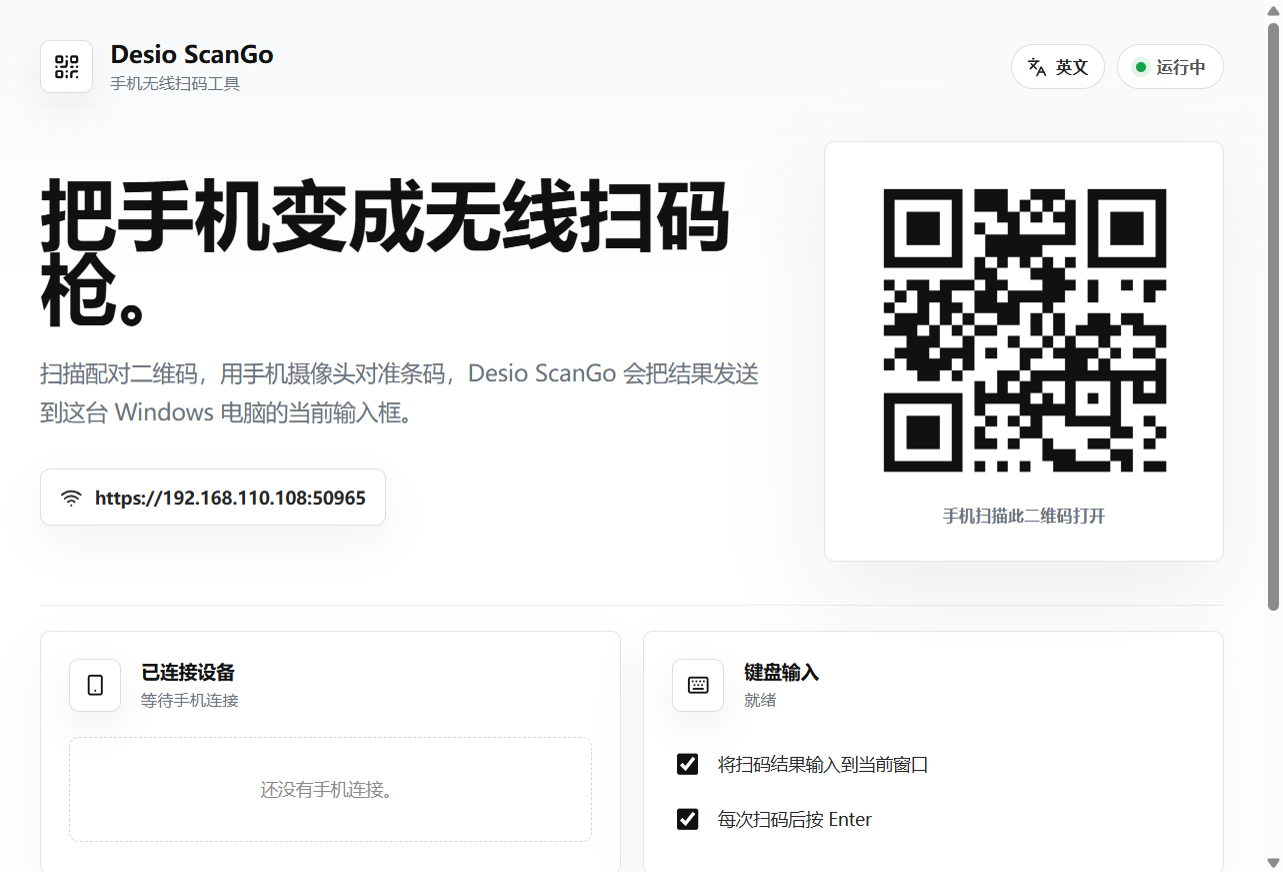
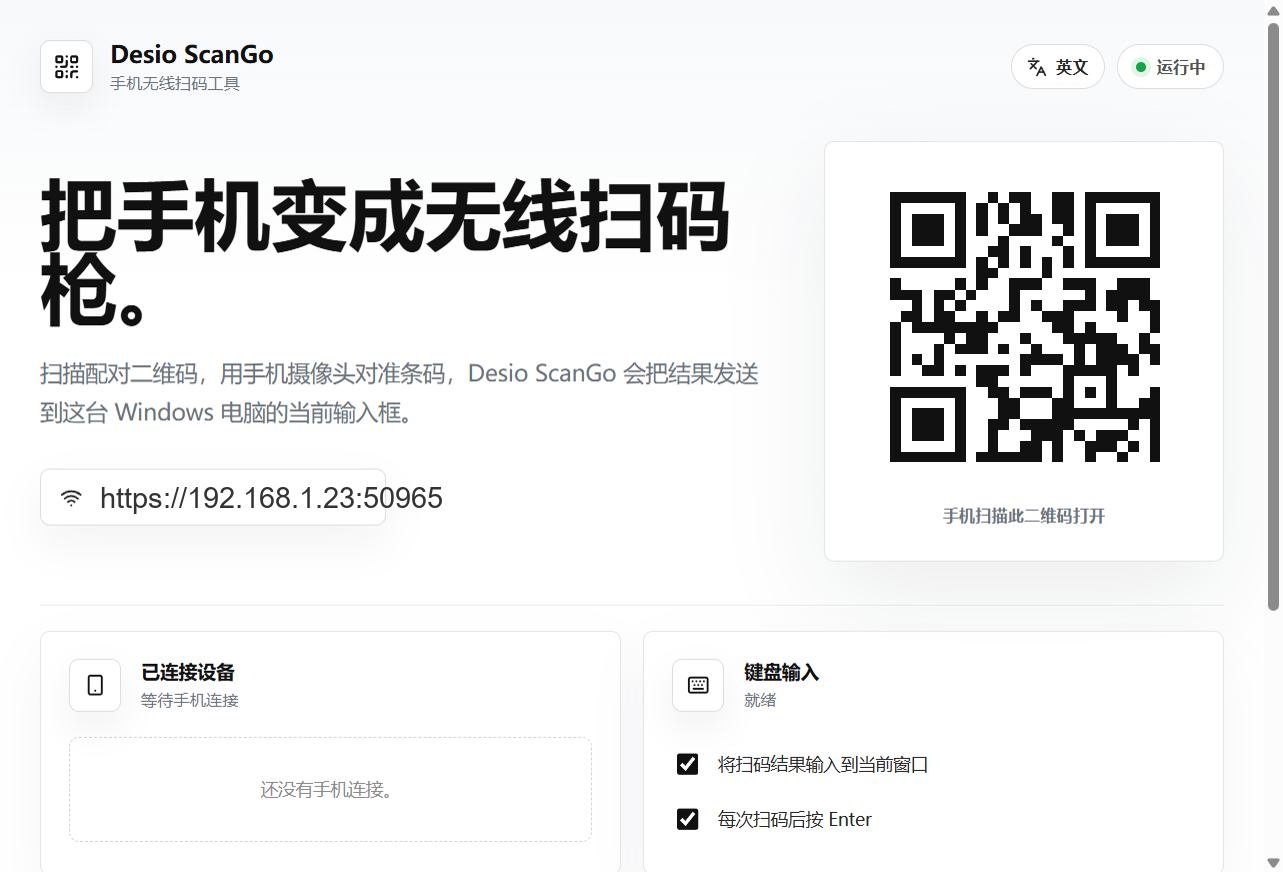
chore: open-source compliance pass
- Point LICENSE and package.json author at the repository owner
- Add THIRD-PARTY-NOTICES.md covering all runtime dependencies (MIT/ISC)
- Add SECURITY.md documenting the threat model, known limitations,
  privacy guarantees and private vulnerability reporting
- Replace the real LAN address in the README screenshot (both the
  address pill and the pairing QR code) with a placeholder
- Add a GitHub Actions workflow running lint and build on push/PR

Changed region(s): [[0.6859, 0.2167, 0.9353, 0.5573], [0.0624, 0.5573, 0.3429, 0.5883]]

diff --git a/SECURITY.md b/SECURITY.md
@@ -1,0 +1,43 @@
+# 安全说明
+
+## 支持的版本
+
+| 版本 | 是否提供安全修复 |
+| --- | --- |
+| 0.1.x | 是 |
+
+## 报告漏洞
+
+**请不要用公开 issue 报告安全漏洞。** 请通过 GitHub 仓库的「Security」标签页使用私密漏洞报告（Private vulnerability reporting）提交，或通过仓库所有者的 GitHub 账号（wsd20021030）私信联系。
+
+收到报告后会在 7 天内初步回应。请在报告中包含复现步骤、影响范围和你的网络环境（如：同一 WiFi 下的另一台设备）。
+
+## 威胁模型与已知限制
+
+Desio ScanGo 的设计目标是**个人在可信局域网内的效率工具**，不是面向不可信网络的服务。以下是当前版本明确存在的限制，使用前请知悉：
+
+### 1. 局域网内没有鉴权
+
+手机端与服务端的 WebSocket 连接**没有配对令牌或设备审批**。同一局域网内的任何设备只要知道服务地址（地址就在桌面端二维码里），就可以：
+
+- 连接并发送伪造的扫码结果
+
+这意味着在共享 WiFi（公司、咖啡厅、公共网络）下，有人可以向你的电脑注入假条码。**缓解方式**：只在可信网络使用。**修复计划**：配对令牌与设备白名单在路线图中。
+
+### 2. 键盘输入模拟会打到任意焦点窗口
+
+扫码结果默认通过模拟键盘输入写到**当前获得焦点的窗口**。如果不注意焦点位置，条码内容可能被键入到聊天软件、搜索框等意想不到的地方，造成信息泄露或误操作。缓解方式：扫码前先点好目标输入框，或在桌面端取消勾选「将扫码结果输入到当前窗口」。
+
+### 3. 自签证书私钥
+
+`certs/` 目录包含 CA 私钥与服务器私钥，**仅存在于你自己的电脑，不得提交到仓库或分发给别人**（该目录已在 `.gitignore` 中）。如果怀疑私钥泄露，删除 `certs/` 后重新运行 `npm run dev:cert`，并在手机上重新安装新证书。证书仅用于本地开发调试，不可用于对外服务。
+
+### 4. 扫码历史只保存在内存
+
+桌面端的历史列表与手机端状态都存于内存，不写磁盘。应用退出即清空。
+
+## 隐私
+
+- **摄像头画面只在手机本地解码**，不录制、不存储、不经过任何外部服务器
+- 扫码数据只在你的手机和你的电脑之间通过局域网传输，**没有任何云端中转**
+- 项目不收集、不上传任何统计数据或遥测

diff --git a/README.md b/README.md
@@ -203,11 +203,15 @@ npm run package    # 打包 Windows 安装包，输出到 release/
 
 代码风格与提交约定见 [CONTRIBUTING.md](CONTRIBUTING.md)。
 
-## 安全说明
+## 安全与隐私
 
-Desio ScanGo 面向**可信的局域网**使用。当前版本只要设备能打开配对链接就可以发送扫码结果，没有做配对令牌或设备审批。在公共网络、公司共享网络等不可信环境中使用前，建议先加上 pairing token 与设备白名单。
+**隐私方面**：摄像头画面只在手机本地解码，不录制、不存储；扫码数据只在你的手机和你的电脑之间通过局域网传输，没有云端中转；项目不收集任何统计数据。
 
-证书仅用于本地开发调试，请勿用于生产环境对外服务。
+**安全方面**：Desio ScanGo 面向**可信的局域网**使用。当前版本只要设备能打开配对链接就可以发送扫码结果，没有做配对令牌或设备审批——在公共网络等不可信环境中，同一网络内的人可以向你的电脑注入伪造条码。使用前的注意事项、完整威胁模型与漏洞报告方式见 [SECURITY.md](SECURITY.md)。
+
+证书仅用于本地开发调试，`certs/` 目录（含私钥）永远不会提交到仓库，请勿用于生产环境对外服务。
+
+本项目依赖的所有开源组件及其许可证汇总见 [THIRD-PARTY-NOTICES.md](THIRD-PARTY-NOTICES.md)。
 
 ## 许可证
 

diff --git a/THIRD-PARTY-NOTICES.md b/THIRD-PARTY-NOTICES.md
@@ -1,0 +1,30 @@
+# 第三方组件声明（THIRD-PARTY NOTICES）
+
+Desio ScanGo 依赖以下开源组件，感谢这些项目的作者。所有依赖均采用宽松许可证（MIT / ISC），与本项目使用的 MIT 许可证兼容。
+
+## 运行时依赖
+
+| 组件 | 版本 | 许可证 | 用途 |
+| --- | --- | --- | --- |
+| react | 19.3.0 | MIT | 桌面端与手机端界面 |
+| react-dom | 19.3.0 | MIT | 界面渲染 |
+| @zxing/browser | 0.1.5 | MIT | 摄像头扫码解码 |
+| @zxing/library | 0.21.3 | MIT | 条码/二维码解码核心 |
+| lucide-react | 0.544.0 | ISC | 界面图标 |
+| express | 5.2.1 | MIT | 局域网 HTTP 服务 |
+| ws | 8.22.0 | MIT | WebSocket 通信 |
+| qrcode | 1.5.4 | MIT | 配对二维码生成 |
+
+## 构建与桌面端
+
+| 组件 | 许可证 | 说明 |
+| --- | --- | --- |
+| electron | MIT | 桌面端运行时，内含 Chromium 与 Node.js |
+| electron-builder | MIT | Windows 安装包打包 |
+| vite / @vitejs/plugin-react | MIT | 前端构建 |
+
+Electron 打包了 Chromium 与 Node.js，它们各自的许可声明随 Electron 二进制分发（见 Electron 安装目录中的 `LICENSE` 与 `LICENSES.chromium.html`），在此一并致谢。
+
+## 许可证文本
+
+各组件的完整许可证文本可以在其源代码仓库或 `node_modules/<组件名>/LICENSE` 中查阅。本文件仅为摘要，如与原许可证文本冲突，以原文为准。
